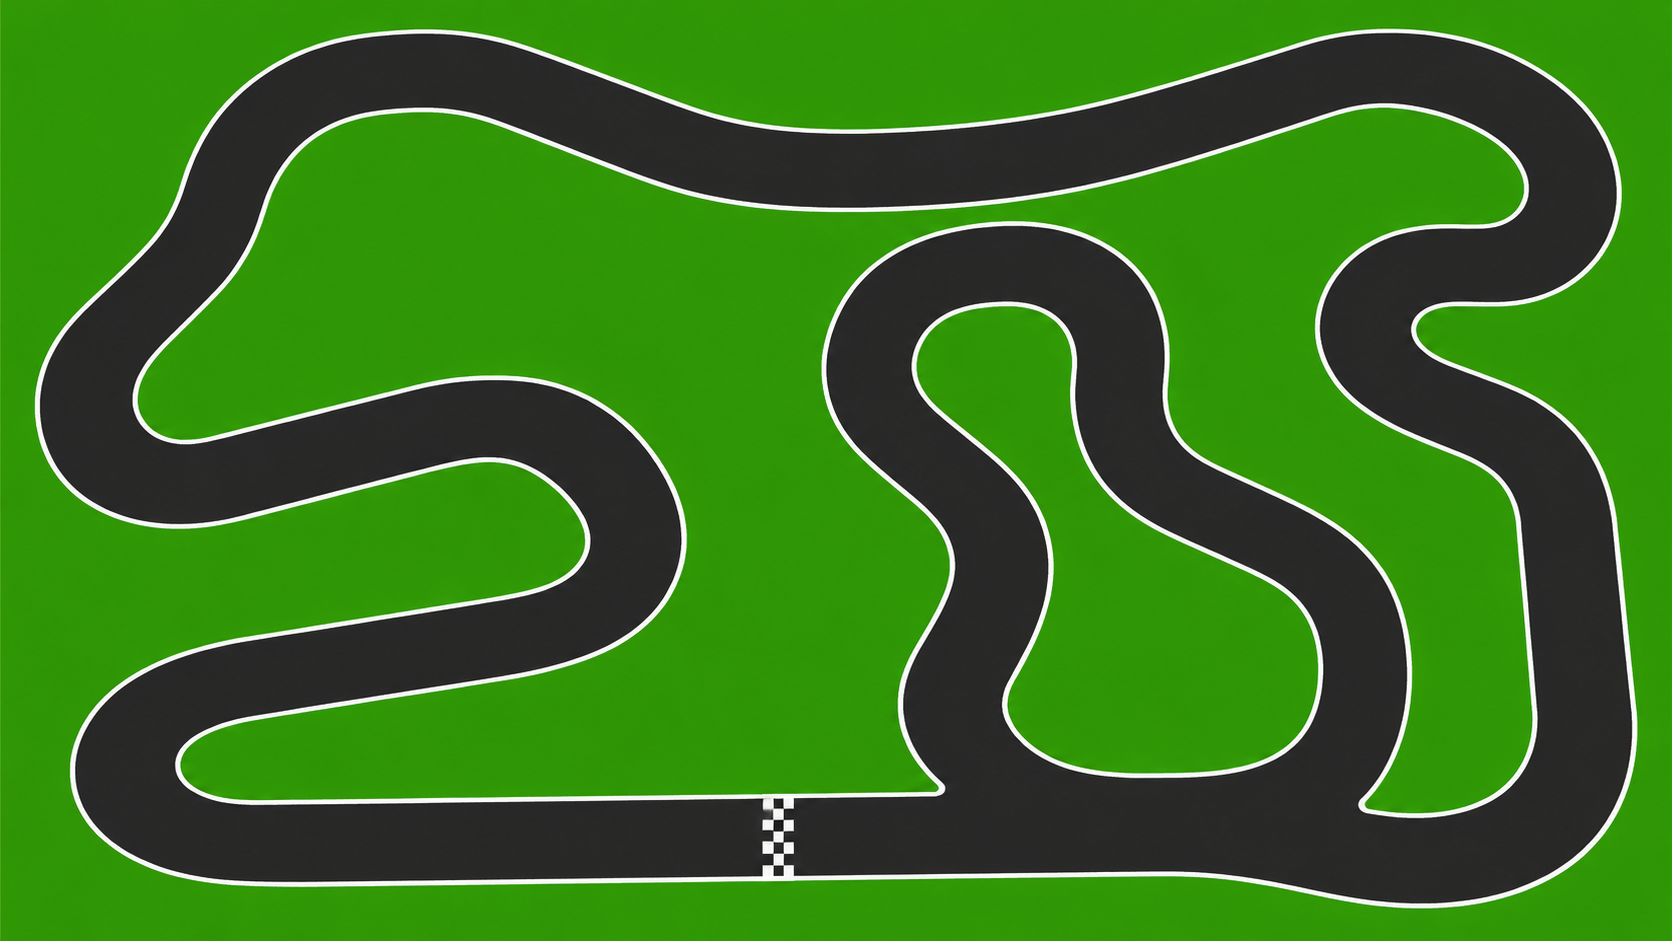
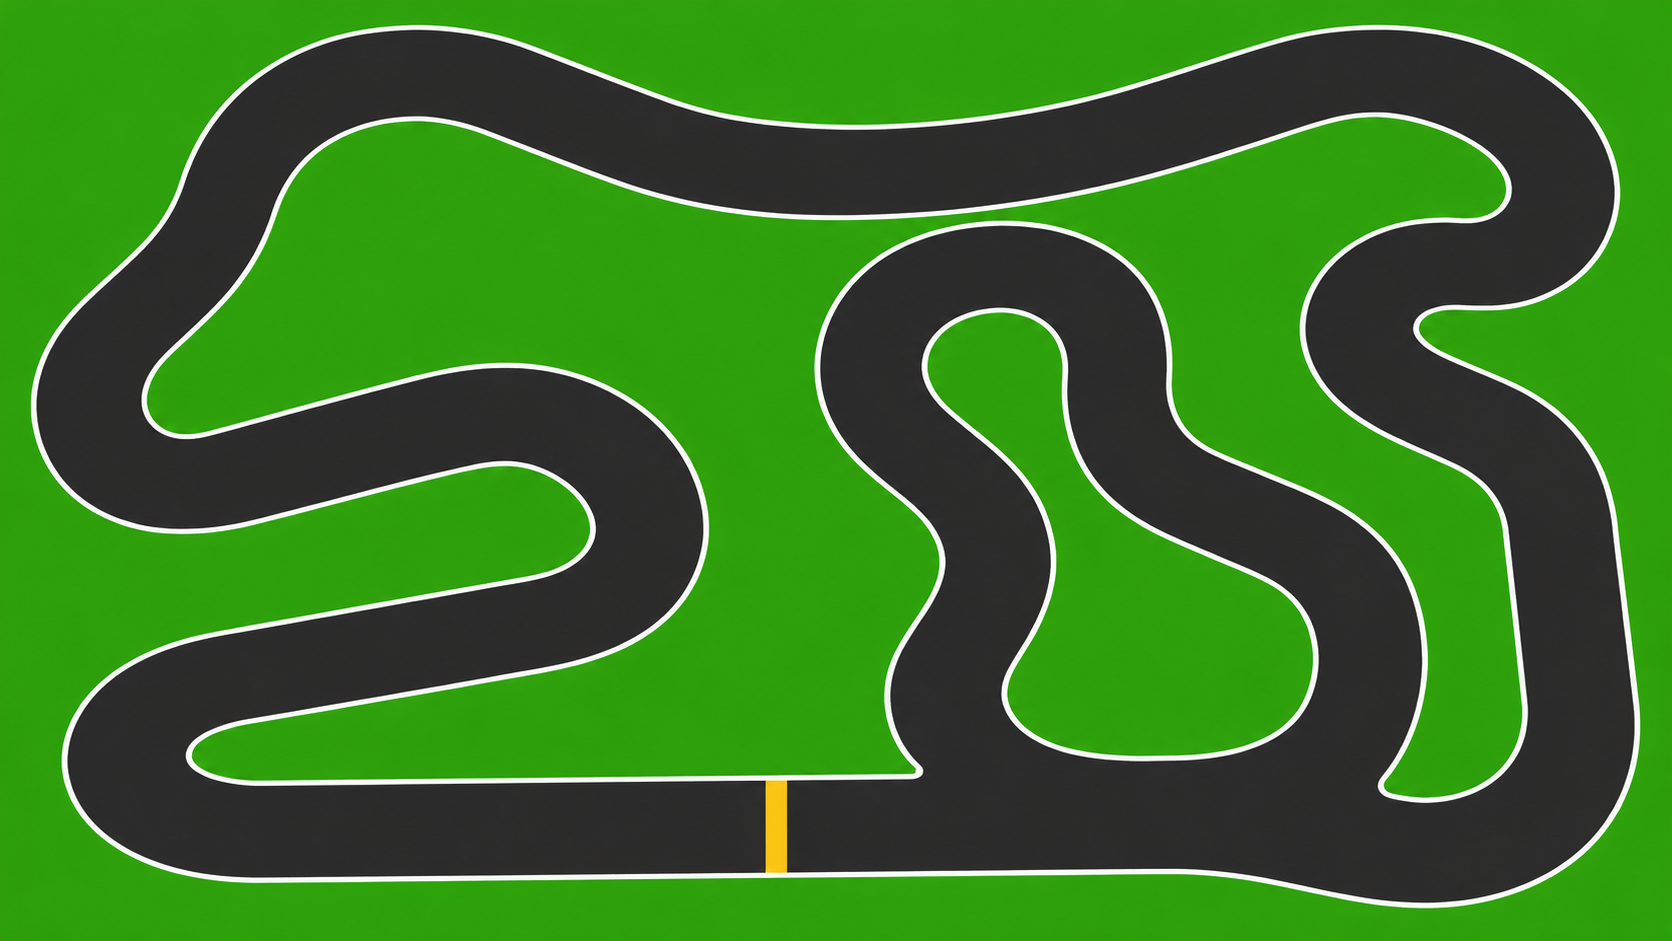
completed wall tracking and resetting for new track

diff --git a/main.py b/main.py
@@ -20,10 +20,16 @@ scaled_car_image = pygame.transform.scale(car_image,(100,75))
 
 custom_track = pygame.image.load('cutomtrack.png')
 custom_track = pygame.transform.scale(custom_track,(1280,720))
-print(custom_track.get_at((300,200)))
+# print(custom_track.get_at((640,360)))
+
+
 # print(custom_track.get_size())
 road_mask = pygame.mask.from_threshold(custom_track,(40,40,40,255),(50,50,50,255))
-print(road_mask.get_at((300,200)))
+yellow_mask = pygame.mask.from_threshold(custom_track,(255,200,0,255),(30,30,30,255))
+road_mask.draw(yellow_mask,(0,0))
+# print(f'Road_mask | {road_mask.get_at((592,643))}')
+# print(f'yellow mask | {yellow_mask.get_at((592,643))}')
+# print(custom_track.get_at((592,643)))
 
 
 running = True 
@@ -33,9 +39,9 @@ outer_ellipse_rect = pygame.Rect(0,0,1000,600)
 outer_ellipse_rect.center = (640,360)
 ellipse_rect.center = (640,360)
 
-car_x , car_y = 180 , 360
+car_x , car_y = 630 , 629
 
-rotate = 0
+rotate = 90
 
 
 speed = 2
@@ -55,19 +61,23 @@ def sensor_length_cal(car_x,car_y,rotate,sensorlength,surface) :
         x_end = int(x_end)
         y_end = int(y_end)
 
-        color = surface.get_at((x_end,y_end))
+        # color = surface.get_at((x_end,y_end))
 
-        if color != (0,0,0,255) :
+        if (x_end < 0  or x_end >= 1280) or  y_end < 0 or y_end >= 720 :
+            break 
+        else :
+            cords = road_mask.get_at((x_end,y_end))
+            if cords != 1 :
+                     break
            
-            break
             
             
-
-
         distance += 1
 
 
     return distance , x_end , y_end
+
+
 
         
 
@@ -111,7 +121,7 @@ def selection(fitness_scores) :
     fitness_scores = np.array(fitness_scores)
     sorted_fitness = np.argsort(fitness_scores)[::-1]
     top1 , top2 = sorted_fitness[0] , sorted_fitness[1]
-    selected_candidates.extend([top1,top2])
+    selected_candidates.extend([top1,top2])  
 
     for i in range(1,49):
         random_three = random.sample(range(0,len(fitness_scores)),k=3)
@@ -226,7 +236,7 @@ def cross0ver(selected_candidate,population) :
     return new_generation
 
 
-def lap_completion(current_car_x ,current_car_y , car_y) :
+def lap_completion(current_car_x ,current_car_y , car_x,car_y) :
     if car_y < 385 and current_car_y >= 385 and current_car_x >= 140 and current_car_x <= 240 :
         return True
     else :
@@ -282,8 +292,8 @@ for i in range(1,11):
 
             if frame_survived == 3000 :
                 car_distance_list.append(total_distance)
-                car_x,car_y = 180 , 360
-                rotate = 0
+                car_x,car_y = 630 , 629
+                rotate = 90
                 fitness = fitness_function(frame_survived,total_distance,lap_counter)
                 # print(f'fitneess score | {fitness}')
                 # print(f'Lap counter | {lap_counter}')
@@ -412,12 +422,18 @@ for i in range(1,11):
 
             correct_position = False 
 
-            if  ((car_x- 640)**2/500**2) + ((car_y - 360 )**2/300**2) < 1 and ((car_x - 640)**2/400**2) + ((car_y-  360)**2/200**2) > 1  :
-                correct_position = True
+            # if  ((car_x- 640)**2/500**2) + ((car_y - 360 )**2/300**2) < 1 and ((car_x - 640)**2/400**2) + ((car_y-  360)**2/200**2) > 1  :
+            if (car_x > 0 and car_x < 1280)  and (car_y > 0 and car_y  < 720)  :
+                cords = road_mask.get_at((int(car_x),int(car_y))) 
+                if cords == 1 :
+
+                    correct_position = True
         
+            print(f'Car mask | , {road_mask.get_at((int(car_x),int(car_y)))}')
             if not correct_position :
-                car_x , car_y = 180 , 360
-                rotate = 0
+
+                car_x , car_y = 630 , 629
+                rotate = 90
                 fitness = fitness_function(frame_survived,total_distance,lap_counter)
                 # print(f'fitness score | {fitness}')
                 # print(f'lap counter | {lap_counter}')
@@ -463,7 +479,6 @@ for i in range(1,11):
 
 pygame.quit()
 
-            
 
 
 
@@ -471,7 +486,7 @@ pygame.quit()
 # print(fitness_scores)
 
 
-# so how is nn capable of this type of things 
+
 
 
 

diff --git a/track_inspector.py b/track_inspector.py
@@ -1,0 +1,39 @@
+import pygame 
+
+pygame.init()
+
+window = pygame.display.set_mode((1280,720))
+
+
+track = pygame.image.load('cutomtrack.png')
+track = pygame.transform.scale(track,(1280,720))
+
+road_mask = pygame.mask.from_threshold(track,(40,40,40,255),(50,50,50,255))
+
+clock = pygame.time.Clock()
+
+running = True
+while running :
+
+    for event in pygame.event.get() :
+        if event.type == pygame.QUIT :
+            running = False
+
+        elif event.type == pygame.KEYDOWN :
+            if  event.key == pygame.K_q :
+                running = False 
+
+
+
+
+    window.blit(track,(0,0))
+
+    x ,y = pygame.mouse.get_pos()
+    color = track.get_at((x,y))
+
+    print(f'x : {x} | y : {y}')
+    # print(track.get_at((x,y)))
+    
+
+    pygame.display.flip()
+    clock.tick(60)

diff --git a/rough.py b/rough.py
@@ -1,18 +1,11 @@
 
-# import numpy as np 
+import numpy as np 
 
 
-# inputs = [2,4,5]
-# weights = [[9,8,3],
-#            [3.4,5,6],
-#            [2.3,4.5,6.7]]
-# bias = [1,2,3]
-# output = np.dot(weights,inputs) + bias
+inputs = [2,4,5]
+weights = [[9,8,3],
+           [3.4,5,6],
+           [2.3,4.5,6.7]]
+bias = [1,2,3]
+output = np.dot(weights,inputs) + bias
 
-name = input('Who is the member of haggu gang :')
-
-if name.lower() == 'tofu' or name.lower() == 'divya' or name.lower() == 'sanskaar' or  name.lower() == 'vaibhav' :
-    print('yes they are the member of haggu gang')
-
-else : 
-    ('No you are wrong tofu divya sanskaar vaibhav are the members of haggu gang')
